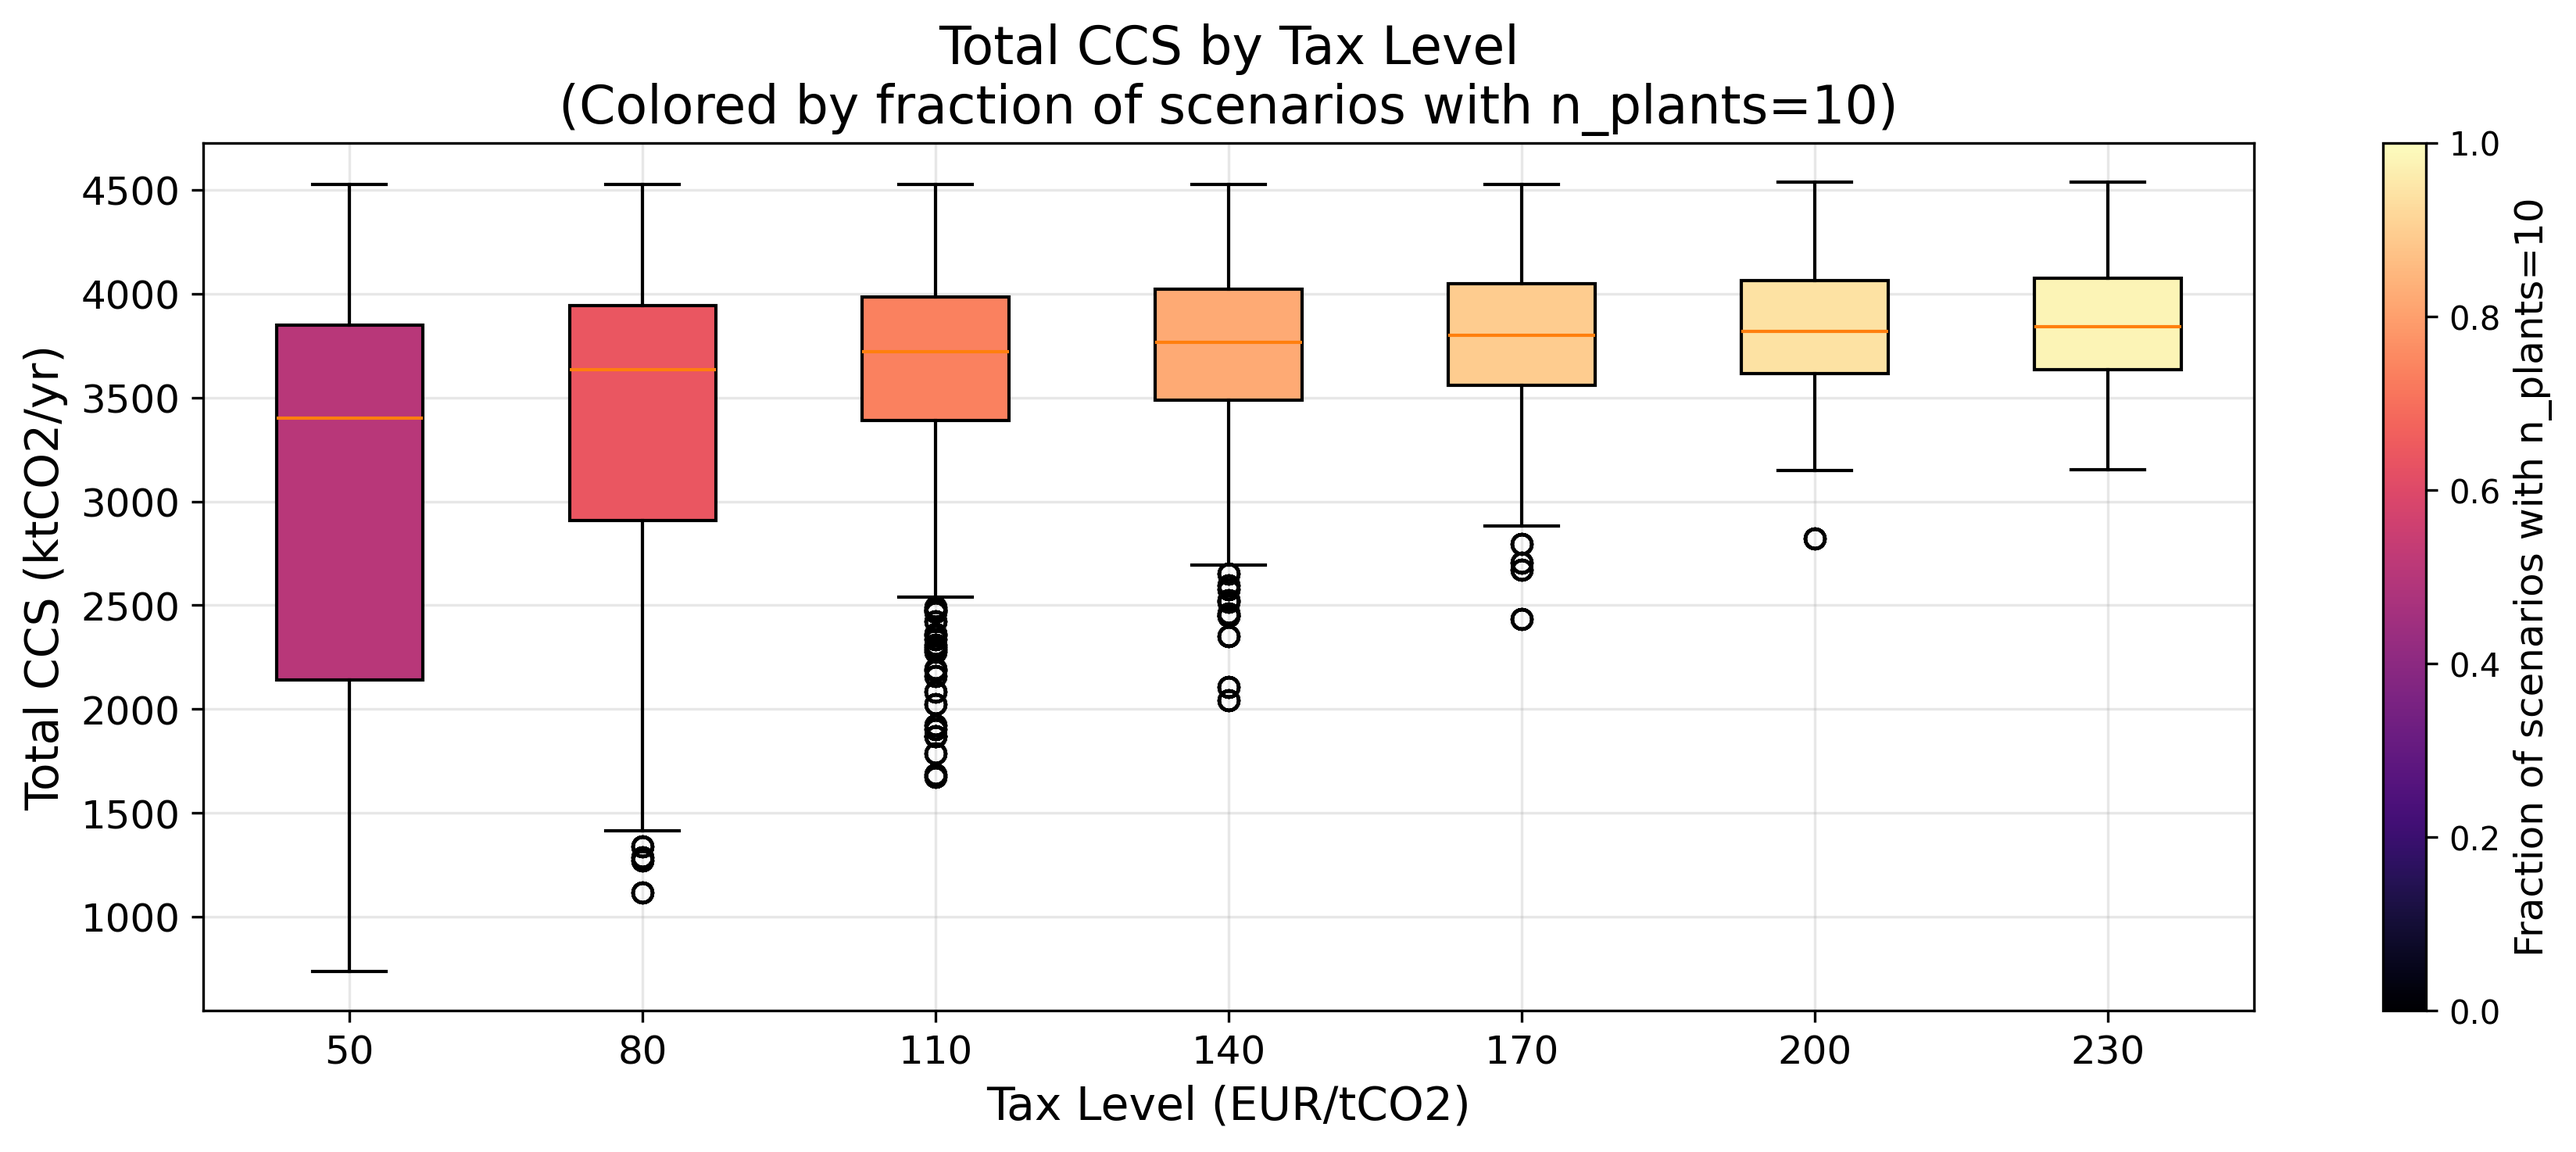
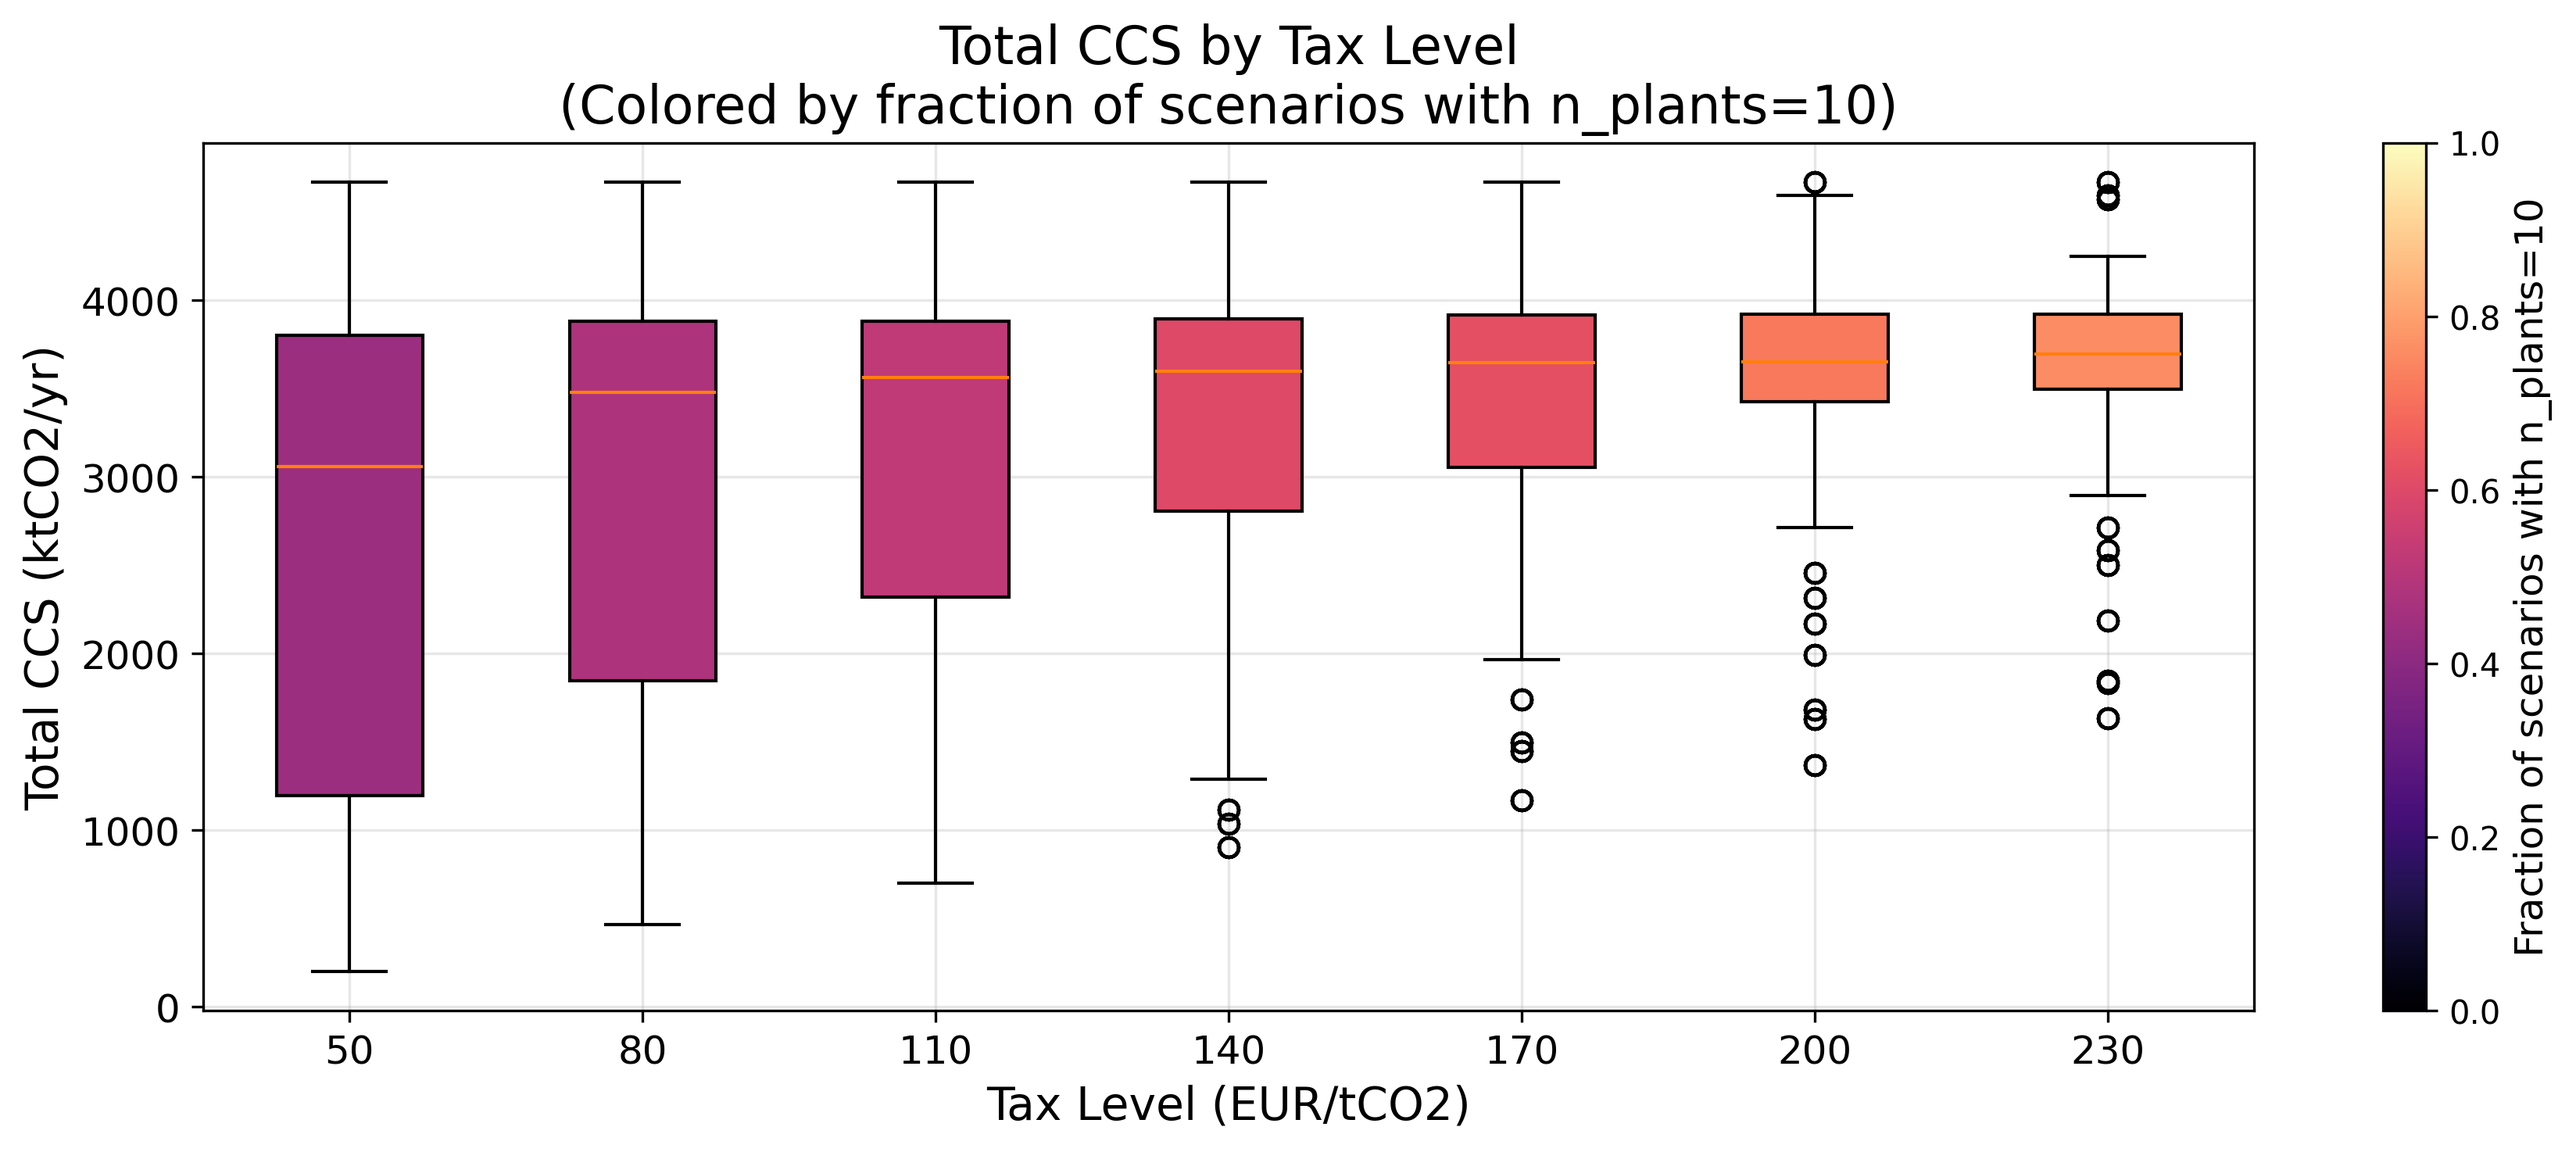
Testing agency=True

diff --git a/controller_ccs.py b/controller_ccs.py
@@ -107,7 +107,7 @@ model.levers = [
 model.constants = [
     Constant("question", research_question), # ["granulates", "products", "both"]
     Constant("CCUS", "CCS"),            # ["CCS", "CCU"]
-    Constant("agency", False),      # [True, False]
+    Constant("agency", True),      # [True, False]
     Constant("plants_df", plants_df),
     Constant("shipping_df", shipping_df),
     Constant("truck_df", truck_df),
@@ -143,7 +143,7 @@ model.outcomes = [
 ]
 
 ema_logging.log_to_stderr(ema_logging.INFO)
-n_scenarios = 250
+n_scenarios = 50
 n_policies = 80
 
 # Regular LHS sampling:
